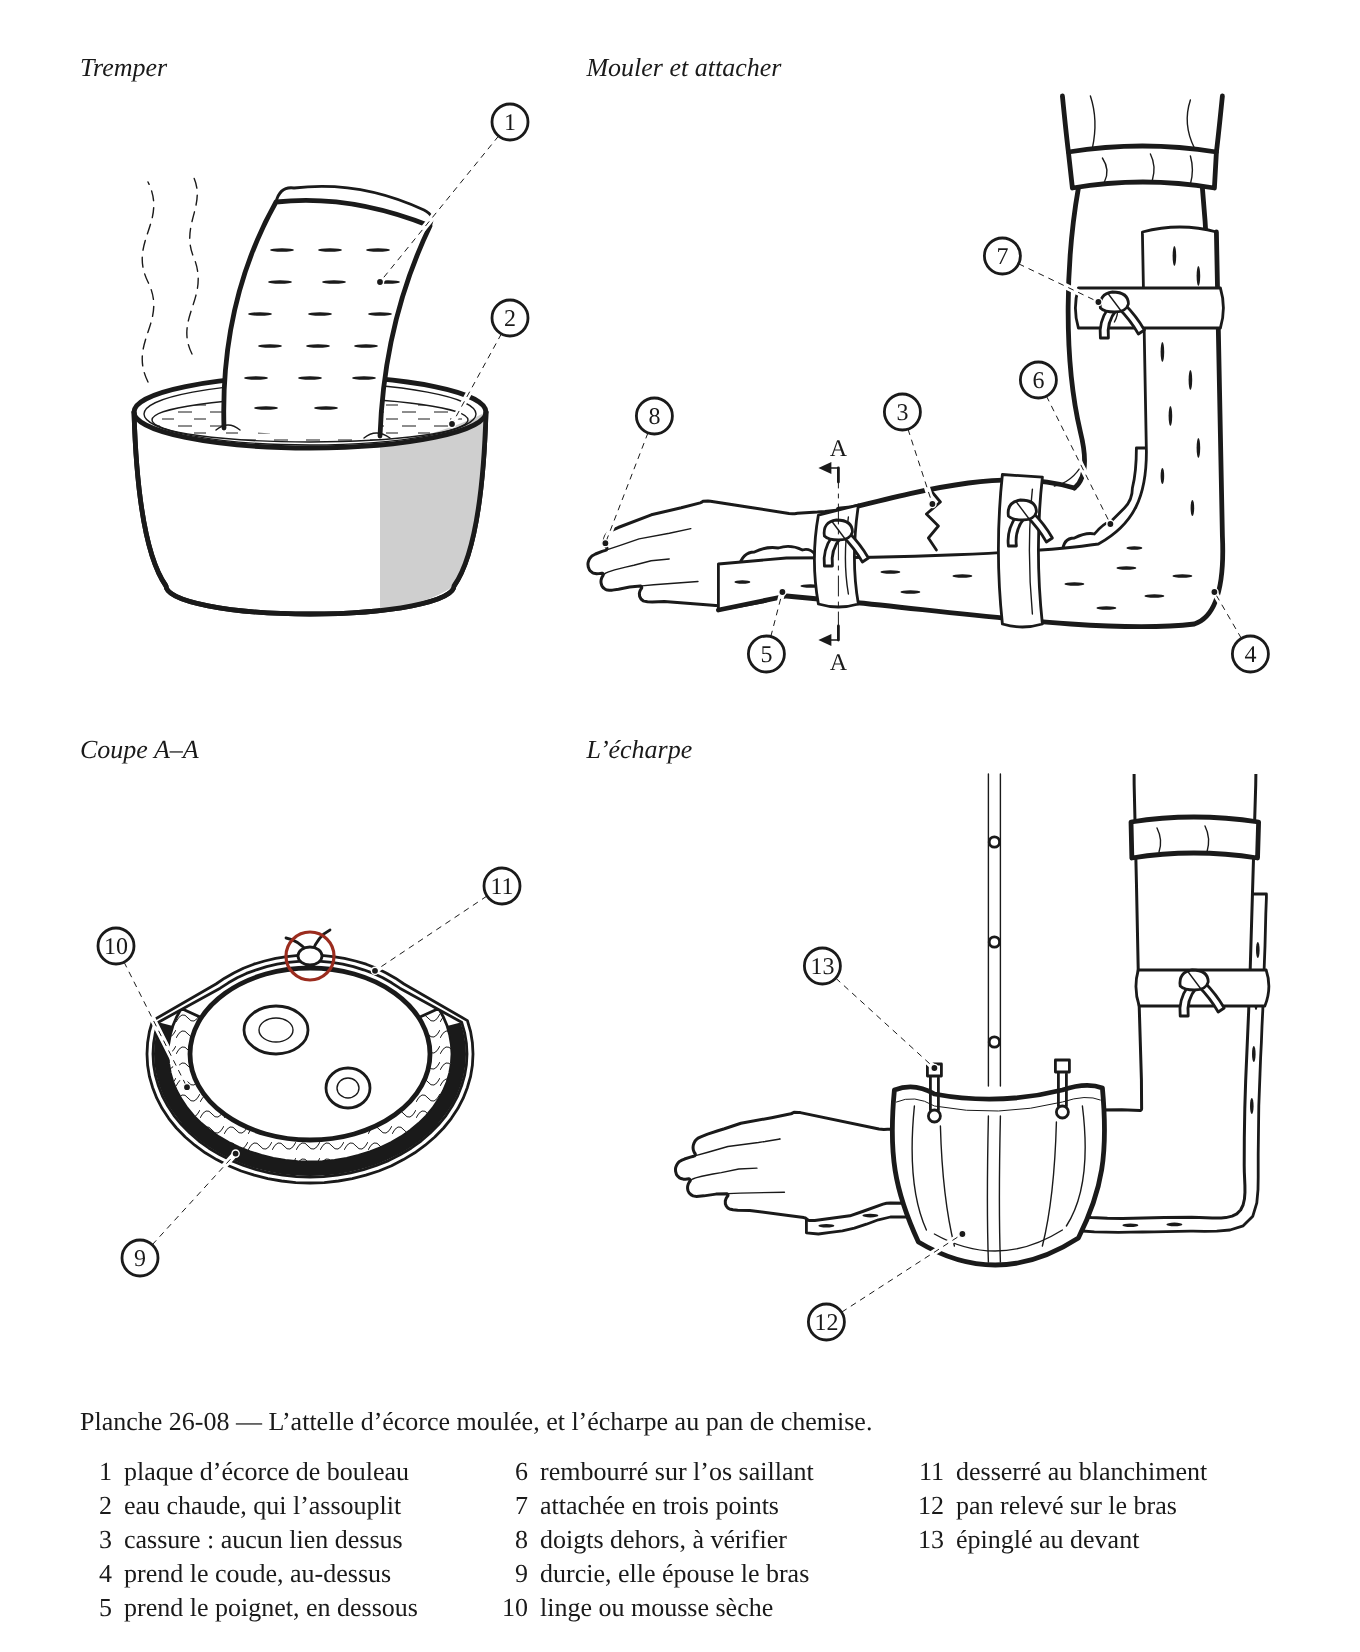
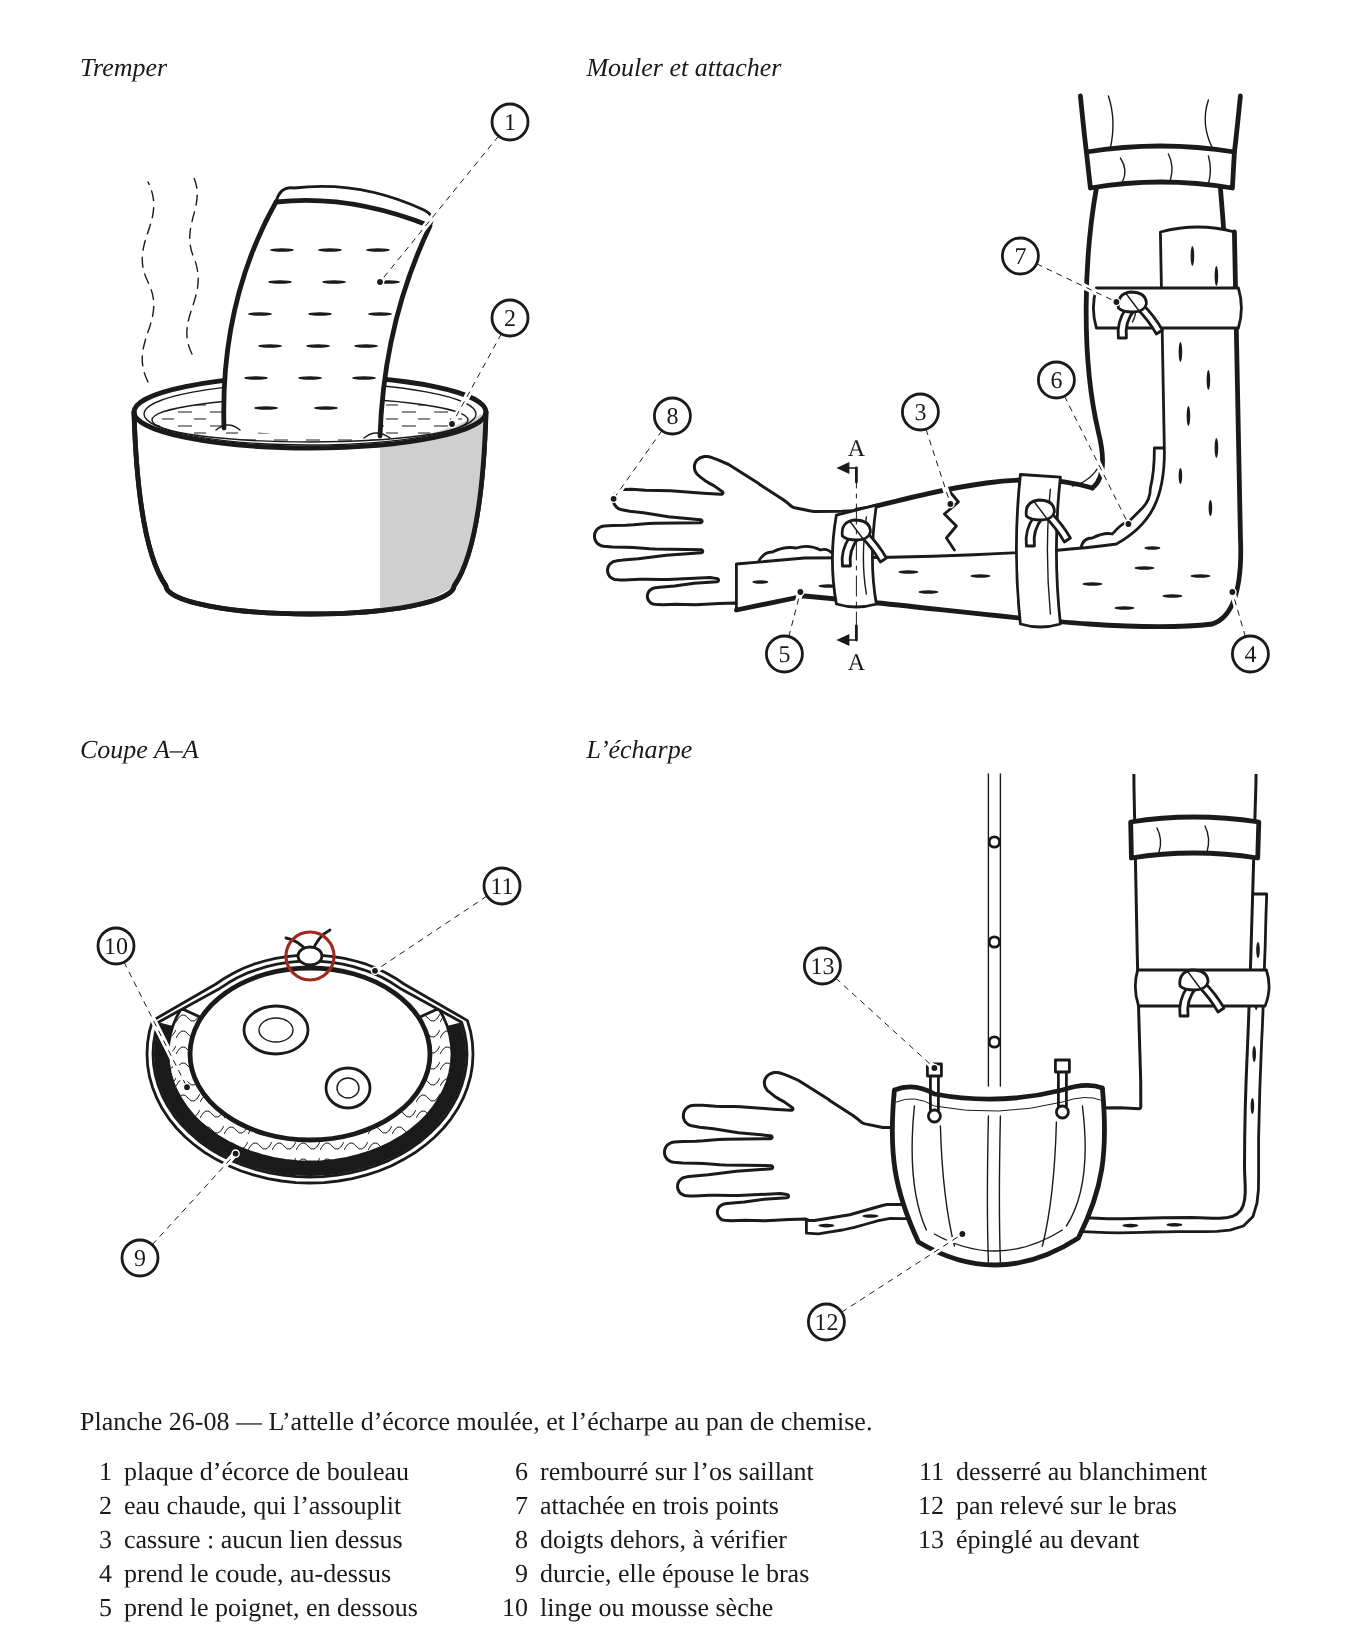
26-08 : la main de « Mouler » et de « L'écharpe » refaite ouverte, doigts séparés
Claude-Session: https://claude.ai/code/session_014xDY5FLxFXDJt3nYAYznSZ

diff --git a/images/planches-src/26-08.js b/images/planches-src/26-08.js
@@ -73,7 +73,7 @@ module.exports = (h) => {
   };
 
   // ─── Mouler et attacher ───────────────────────────────────────────────────────────────
-  const M = { L: 322, y0: 0, y1: 294 };   // 322 : le dessin décalé de 12 à droite, la main entière dans la vue
+  const M = { L: 304, y0: 0, y1: 294 };   // 304 : le dessin décalé de 21 à droite, la main entière dans la vue
   // la main gauche, vue du dos, ouverte (mainSimple, pose ouverte) : le poignet en x 94, à la hauteur de
   // l'avant-bras, les cinq doigts libres au-delà du bout de l'écorce, là où on les vérifie. La pose relachee vue du
   // dos faisait palette (doigts collés, pouce caché : JP, 14 octobre). Son avant-bras s'arrête sous le lien du
